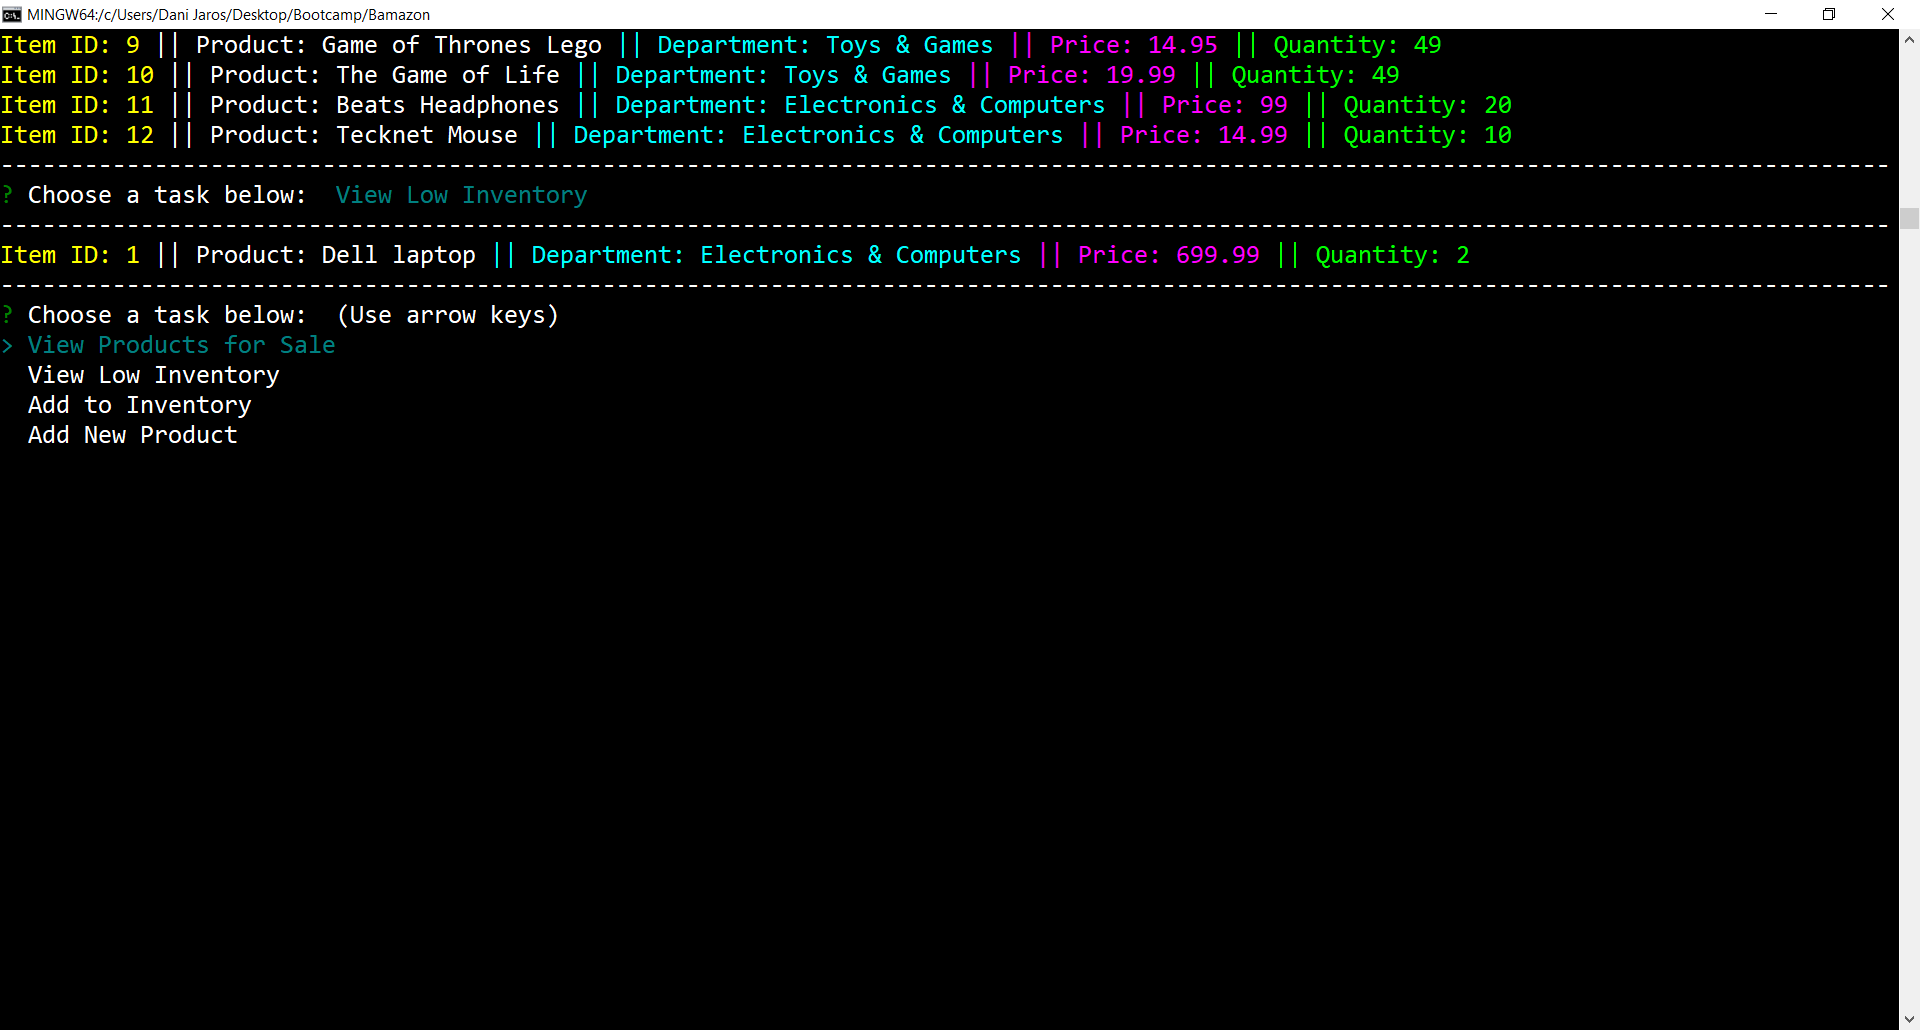
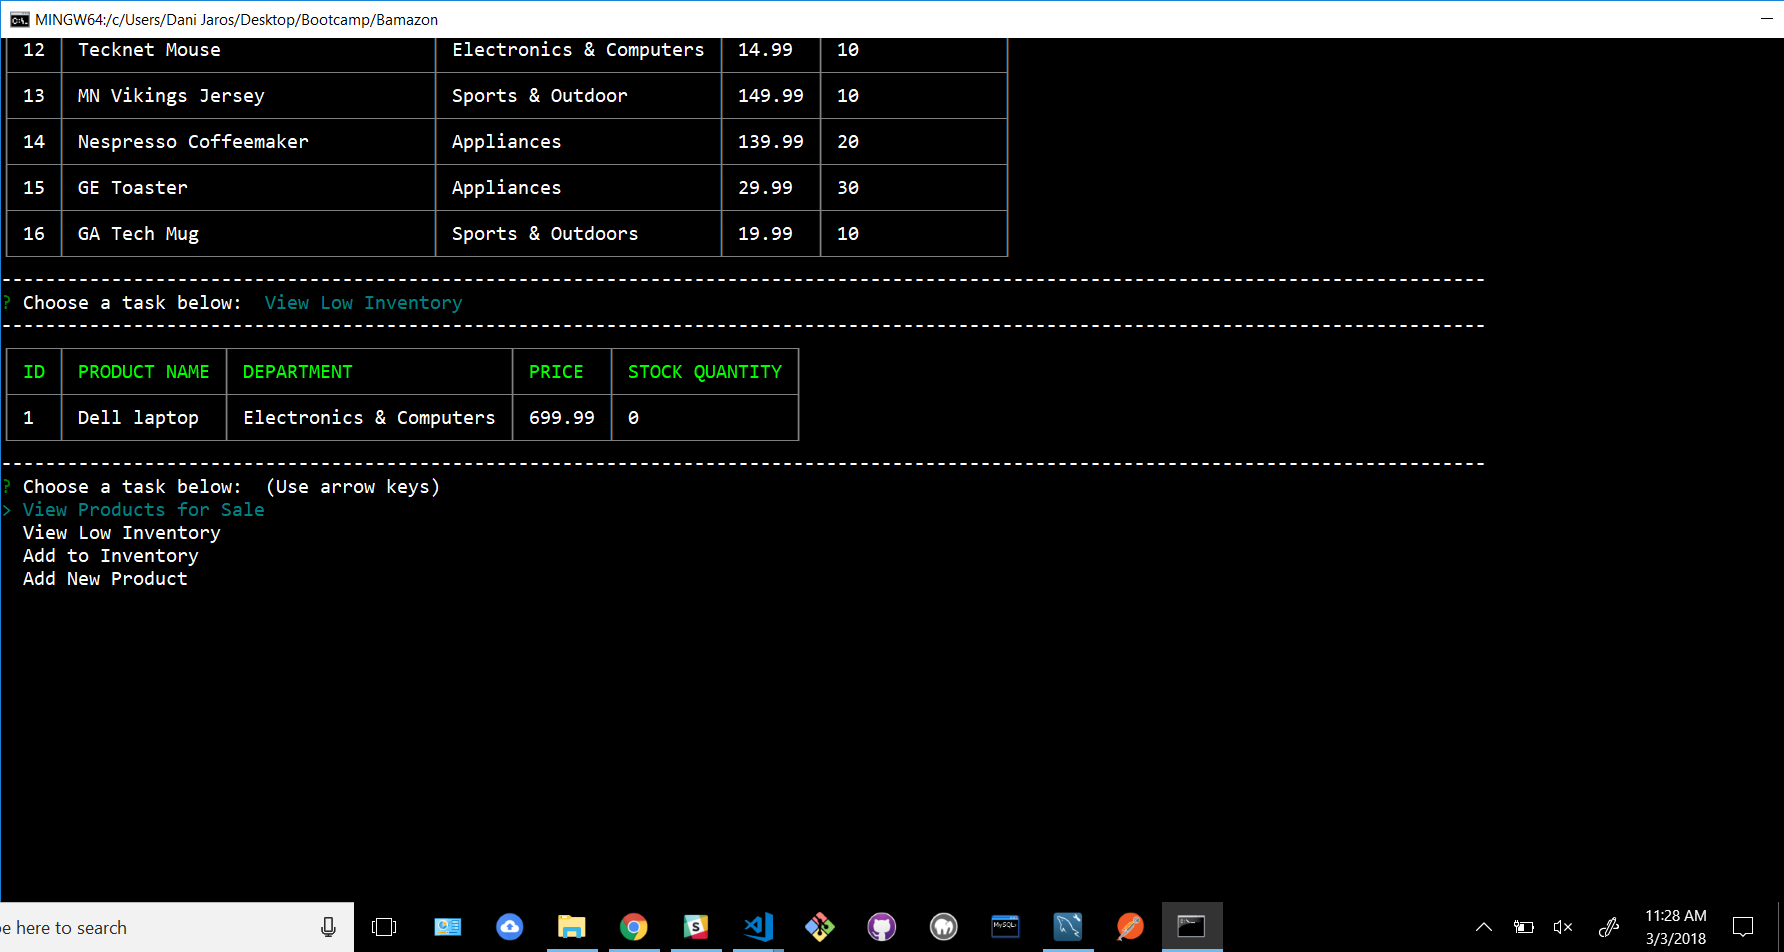
changed code to include a for loop, added cli-table2 npm to the app and changed the screenshots

diff --git a/bamazonCustomer.js b/bamazonCustomer.js
@@ -80,52 +80,50 @@ function placeOrder() {
             // console.log(answer.product_id);
             connection.query("SELECT * FROM products WHERE ?", { item_ID: answer.product_id }, function (err, res) {
                 // If the item is out of stock, then console.log msg to choose another item
-                if (answer.quantity > res[0].stock_quantity) {
-                    console.log("\n");
-                    console.log("---------------------------------------------------------------------------------------------------------------------------------------");
-                    console.log(chalk.redBright("PRODUCT IS OUT OF STOCK. PLEASE SELECT ANOTHER ONE:"));
-                    console.log("---------------------------------------------------------------------------------------------------------------------------------------");
-                    productList();
-                }
-                // Else, show the order summary and the total
-                else {
-                    var total = answer.quantity * res[0].price;
-                    console.log("---------------------------------------------------------------------------------------------------------------------------------------");
-                    console.log(chalk.greenBright("YOUR ORDER SUMMARY: "));
-                    console.log(chalk.greenBright(
-                        "Item ID: " +
-                        res[0].item_ID +
-                        " || Product: " +
-                        res[0].product_name +
-                        " || Department: " +
-                        res[0].department_name +
-                        " || Price: " +
-                        res[0].price +
-                        " || Quantity: " +
-                        answer.quantity +
-                        " || Total: " +
-                        total.toFixed(2)
-                    ));
-                    // Updating inventory after the order is placed
-                    connection.query(
-                        "UPDATE products SET ? WHERE ?",
-                        [
-                            {
-                                stock_quantity: res[0].stock_quantity - answer.quantity
-                            },
-                            {
-                                item_id: answer.product_id
+                for (var i = 0; i < res.length; i++) {
+                    if (answer.quantity > res[i].stock_quantity) {
+                        console.log("\n");
+                        console.log("---------------------------------------------------------------------------------------------------------------------------------------");
+                        console.log(chalk.redBright("PRODUCT IS OUT OF STOCK. PLEASE SELECT ANOTHER ONE:"));
+                        console.log("---------------------------------------------------------------------------------------------------------------------------------------");
+                        productList();
+                    }
+                    // Else, show the order summary and the total
+                    else {
+                        var total = answer.quantity * res[i].price;
+                        console.log("---------------------------------------------------------------------------------------------------------------------------------------");
+                        console.log(chalk.greenBright("YOUR ORDER SUMMARY: "));
+                        var table = new Table({
+                            head: [chalk.greenBright("ID"), chalk.greenBright("PRODUCT NAME"), chalk.greenBright("DEPARTMENT"), chalk.greenBright("PRICE"), chalk.greenBright("TOTAL")]
+                        });
+
+                        table.push([res[i].item_ID, res[i].product_name, res[i].department_name, res[i].price.toFixed(2), total.toFixed(2)]);
+
+                        //Create table layout with items for sale
+                        console.log(table.toString());
+
+                        // Updating inventory after the order is placed
+                        connection.query(
+                            "UPDATE products SET ? WHERE ?",
+                            [
+                                {
+                                    stock_quantity: res[i].stock_quantity - answer.quantity
+                                },
+                                {
+                                    item_id: answer.product_id
+                                }
+                            ],
+                            function (error) {
+                                if (error) throw err;
                             }
-                        ],
-                        function (error) {
-                            if (error) throw err;
-                        }
-                    );
+                        );
+                    }
                     console.log("---------------------------------------------------------------------------------------------------------------------------------------");
                     console.log(chalk.redBright("THANK YOU FOR SHOPPING AT BAMAZON!"));
-                    // Ending connection
-                    process.exit();
+                    
                 }
+                // Ending connection
+                    process.exit();
             });
         });
 };

diff --git a/README.md b/README.md
@@ -35,7 +35,7 @@ A command-line shopping app built using JavaScript and MySQL and executed throug
 
 * Since the item is in stock, it shows the order summary and ends connection:
 
-![Product Chosen is in Stock](/images/inStock.png)
+![Product Chosen is in Stock](/images/orderSummary.png)
 
 ## Manager Mode
 
@@ -68,6 +68,8 @@ A command-line shopping app built using JavaScript and MySQL and executed throug
 * It prompts the manager to enter product name, department name, price and quantity of stock of new item being added:
 
 ![Add Product](/images/newProd.png)
+
+![Add Product](/images/newProdInList.png)
 
 ## Author
 Daniela Jaros
